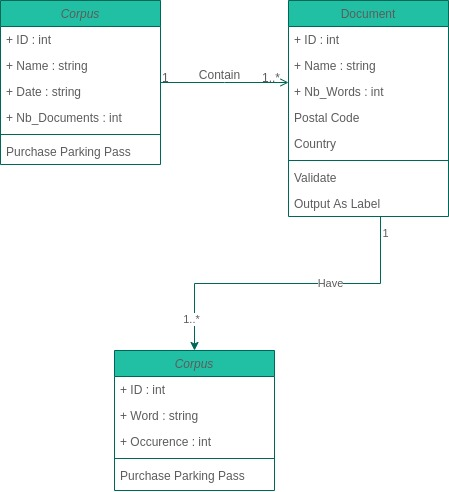
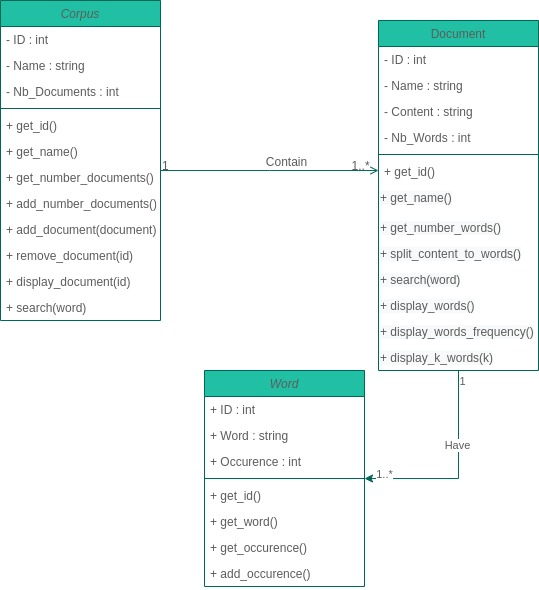
ok

Changed region(s): [[0.0, 0.0, 1.0, 1.0], [0.0, 0.4268, 0.2494, 0.4878]]

diff --git a/Projet/Main.cpp b/Projet/Main.cpp
@@ -1,5 +1,5 @@
 #include <iostream>
-#include <./Classes/Corpus.hpp>
+#include "./Classes/Corpus.hpp"
 #include <cstring>
 using namespace std;
 
@@ -9,9 +9,9 @@ void displayMenu()
     cout << "\t\t\t===========================" << endl;
     cout << "\t\t\t\t     MENU" << endl;
     cout << "\t\t\t===========================" << endl;
-    cout << "\t\t\t2 PLAYERS MODE          || 1" << endl;
-    cout << "\t\t\tMULTI PLAYERS MODE      || 2" << endl;
-    cout << "\t\t\tEXIT                    || 3" << endl;
+    cout << "\t\t\tDisplay Corpus List        || 1" << endl;
+    cout << "\t\t\tSelect Corpus              || 2" << endl;
+    cout << "\t\t\tEXIT                       || 3" << endl;
     cout << "\t\t\t===========================" << endl;
     printf("\e[0m");
 }
@@ -31,11 +31,11 @@ int main()
 {
     try
     {
-        system("  figlet -c -f standard 'Death Match'");
+        system("  figlet -c -f standard 'Corpus Manager'");
     }
     catch (...)
     {
-        cout << "******* DEATH MATCH *******" << endl;
+        cout << "******* CORPUS MANAGER *******" << endl;
     }
 
     displayMenu();

diff --git a/Projet/Classes/Word.hpp b/Projet/Classes/Word.hpp
@@ -1,0 +1,46 @@
+#include <iostream>
+#include <limits>
+using namespace std;
+
+class Word
+{
+private:
+    int id;
+    string word;
+    int occurence;
+
+public:
+    Word(int arg_id, string arg_word);
+    void add_occurence();
+    int get_occurence();
+    string get_word();
+    int get_id();
+    ~Word();
+};
+
+Word::Word(int arg_id, string arg_word)
+{
+    id = arg_id;
+    word = arg_word;
+}
+string Word::get_word()
+{
+    return word;
+}
+
+int Word::get_id()
+{
+    return id;
+}
+int Word::get_occurence()
+{
+    return occurence;
+}
+void Word::add_occurence()
+{
+    occurence++;
+}
+
+Word::~Word()
+{
+}

diff --git a/Projet/Classes/Document.hpp b/Projet/Classes/Document.hpp
@@ -1,10 +1,17 @@
 #include <iostream>
-#include <limits>
+#include "Word.hpp"
+#include <bits/stdc++.h>
+
 using namespace std;
 class Document
 {
 private:
-    /* data */
+    int id;
+    string name;
+    string content;
+    int nb_words;
+    vector<Word> words;
+
 public:
     Document(/* args */);
     ~Document();

diff --git a/Projet/Classes/Corpus.hpp b/Projet/Classes/Corpus.hpp
@@ -1,5 +1,6 @@
 #include <iostream>
 #include <limits>
+#include "Document.hpp"
 using namespace std;
 class Corpus
 {

diff --git a/Projet/README.md b/Projet/README.md
@@ -1,4 +1,5 @@
-# Corpus Managment
+# this work is still under constraction ! 
+# Corpus Managment
 
 <img src='ClassDiagram.jpg'  alt="Class Digram"
      style="float: left; margin-right: 50em;" >
